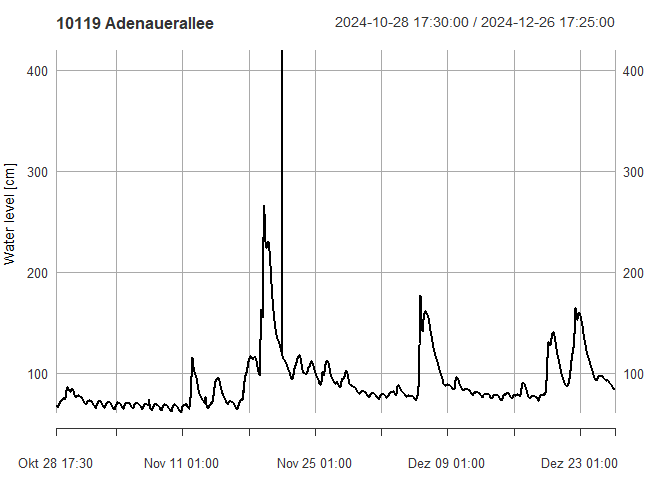
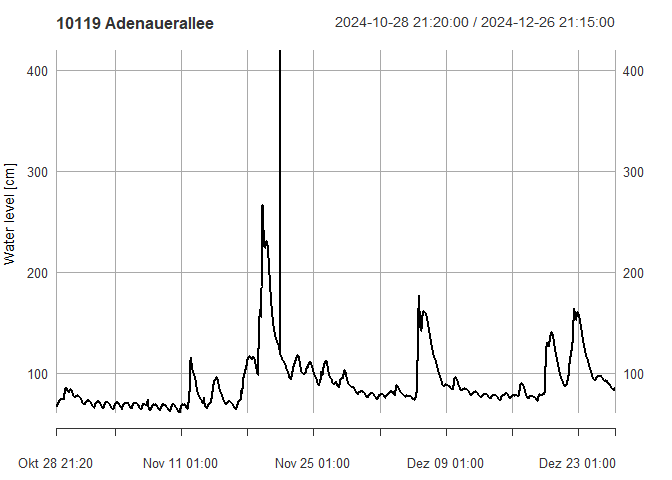
doc(get_*): parameter

diff --git a/README.md b/README.md
@@ -25,12 +25,12 @@ and load the package via
 
 ``` r
 library(EGLVgauges)
-#> 0.2.4
+#> 0.2.5
 ```
 
 ## Basic examples
 
-### Get gauge metadata and latest measurements
+### Get gauge metadata, locations and latest measurements
 
 ``` r
 # fetch all available gauges
@@ -80,7 +80,7 @@ gauge
 #> #   geometry <POINT [m]>
 ```
 
-### Get (extended) metadata for specific gauge
+### Get (extended) metadata for selected gauges
 
 ``` r
 get_meta(gauge)
@@ -91,7 +91,7 @@ get_meta(gauge)
 #> # ℹ 1 more variable: level_zero <dbl>
 ```
 
-### Get available measurements for specific gauge
+### Get available measurements for selected gauges
 
 ``` r
 # fetch water level measurements
@@ -101,27 +101,27 @@ meas
 #>   NOTE: set 'options(xts_check_TZ = FALSE)' to disable this warning
 #>     This note is displayed once per session
 #>                     Wasserstand
-#> 2024-10-28 17:30:00          68
-#> 2024-10-28 17:35:00          68
-#> 2024-10-28 17:40:00          68
-#> 2024-10-28 17:45:00          68
-#> 2024-10-28 17:50:00          68
-#> 2024-10-28 17:55:00          68
-#> 2024-10-28 18:00:00          68
-#> 2024-10-28 18:05:00          68
-#> 2024-10-28 18:10:00          68
-#> 2024-10-28 18:15:00          68
+#> 2024-10-28 21:20:00          68
+#> 2024-10-28 21:25:00          68
+#> 2024-10-28 21:30:00          68
+#> 2024-10-28 21:35:00          68
+#> 2024-10-28 21:40:00          68
+#> 2024-10-28 21:45:00          68
+#> 2024-10-28 21:50:00          69
+#> 2024-10-28 21:55:00          69
+#> 2024-10-28 22:00:00          69
+#> 2024-10-28 22:05:00          69
 #>                 ...            
-#> 2024-12-26 16:40:00          85
-#> 2024-12-26 16:45:00          85
-#> 2024-12-26 16:50:00          85
-#> 2024-12-26 16:55:00          85
-#> 2024-12-26 17:00:00          85
-#> 2024-12-26 17:05:00          85
-#> 2024-12-26 17:10:00          85
-#> 2024-12-26 17:15:00          85
-#> 2024-12-26 17:20:00          85
-#> 2024-12-26 17:25:00          85
+#> 2024-12-26 20:30:00          85
+#> 2024-12-26 20:35:00          85
+#> 2024-12-26 20:40:00          86
+#> 2024-12-26 20:45:00          86
+#> 2024-12-26 20:50:00          86
+#> 2024-12-26 20:55:00          86
+#> 2024-12-26 21:00:00          86
+#> 2024-12-26 21:05:00          86
+#> 2024-12-26 21:10:00          86
+#> 2024-12-26 21:15:00          86
 
 class(meas)
 #> [1] "xts" "zoo"
